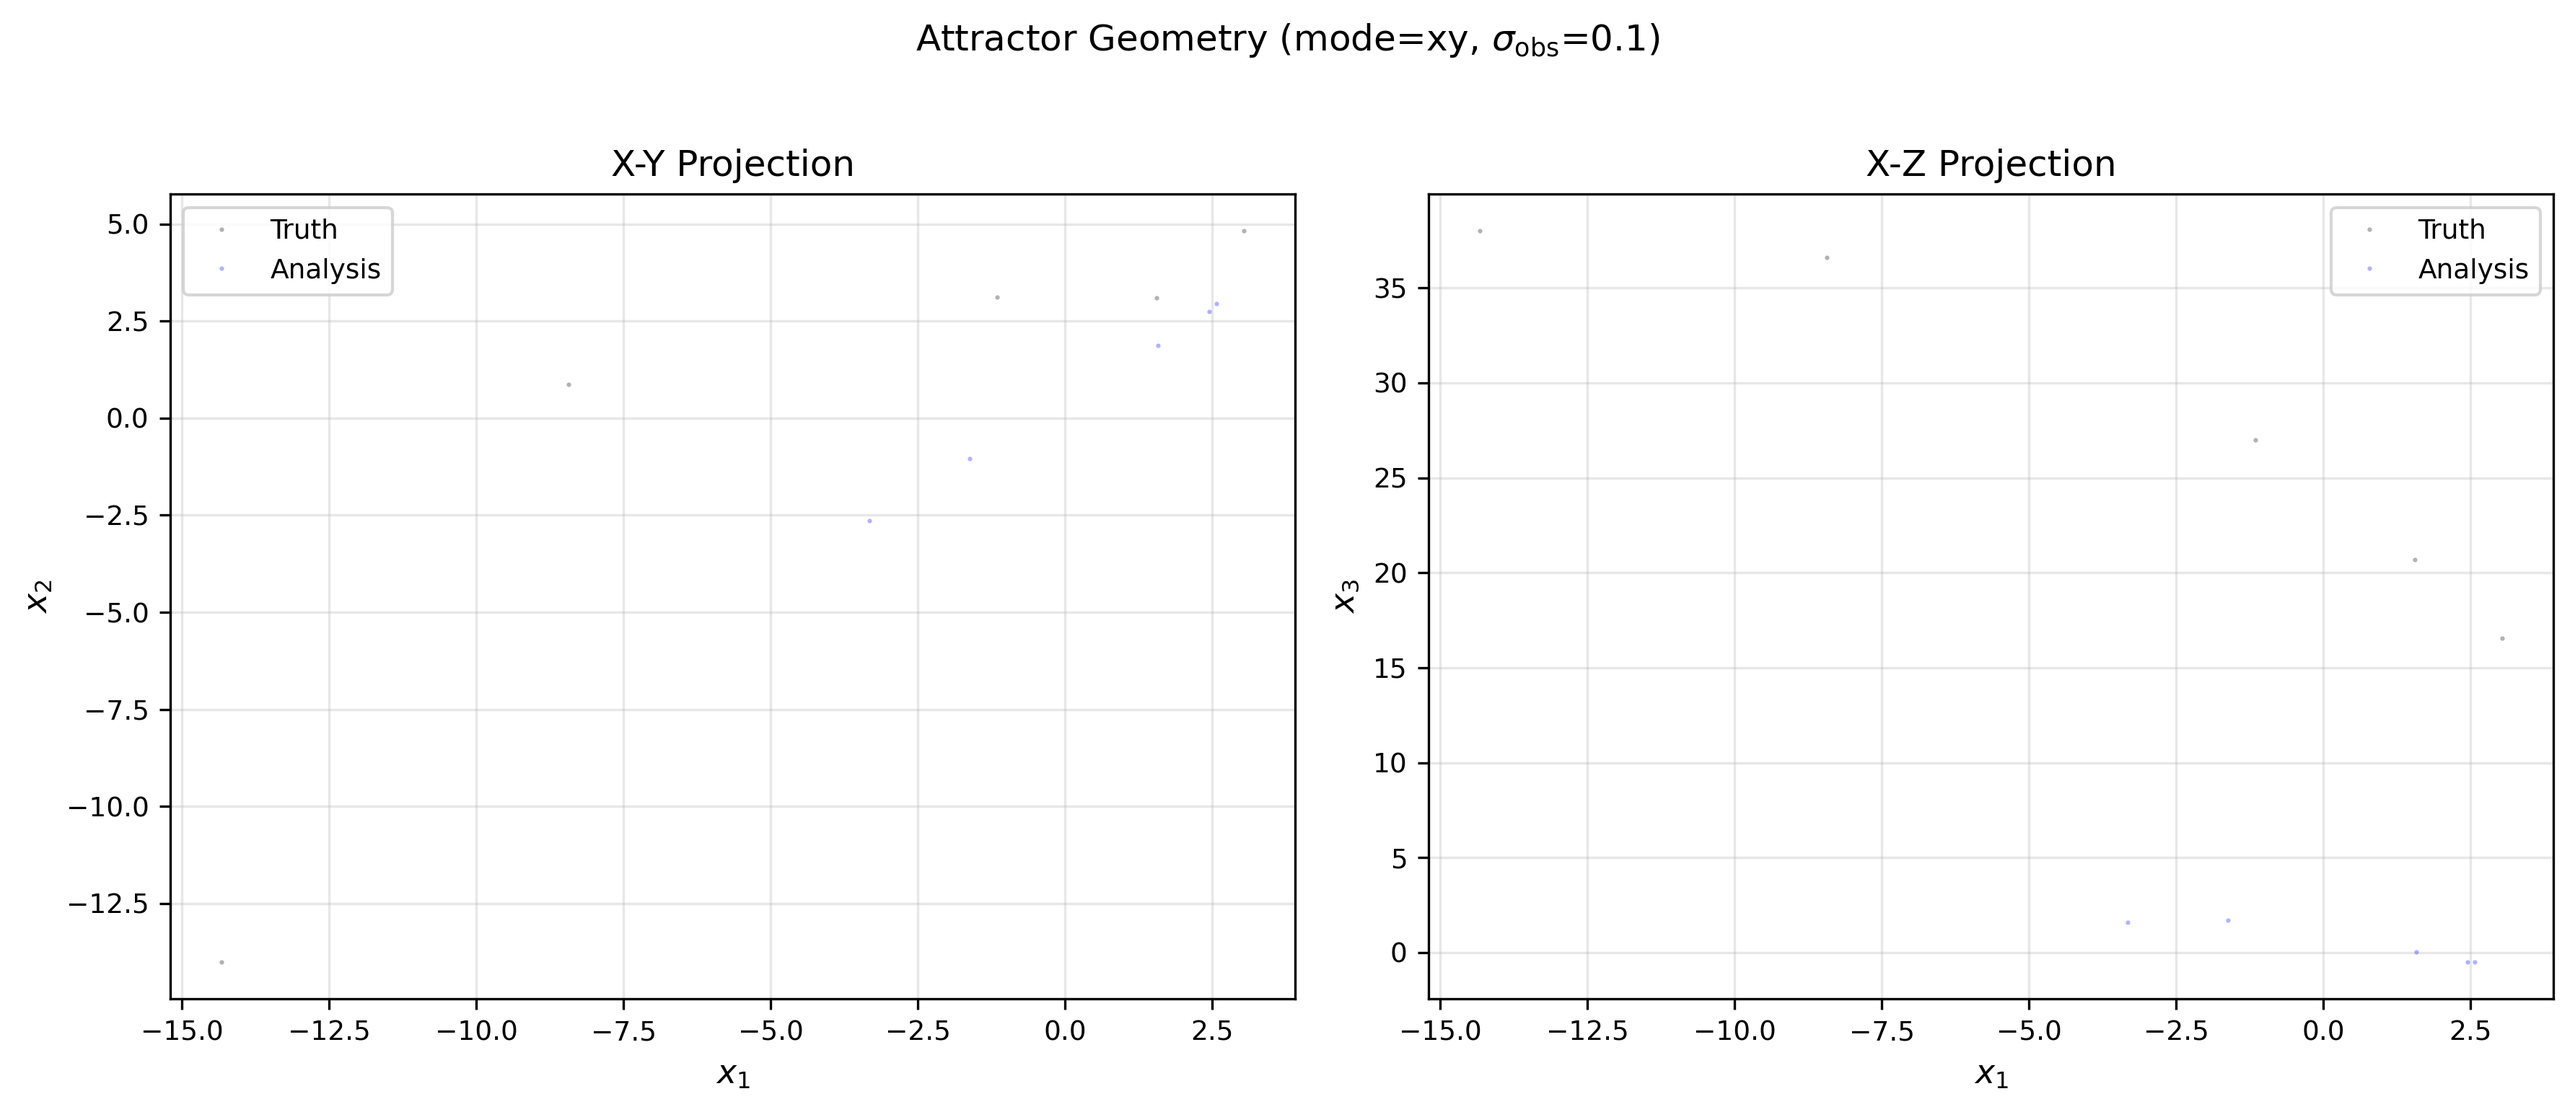
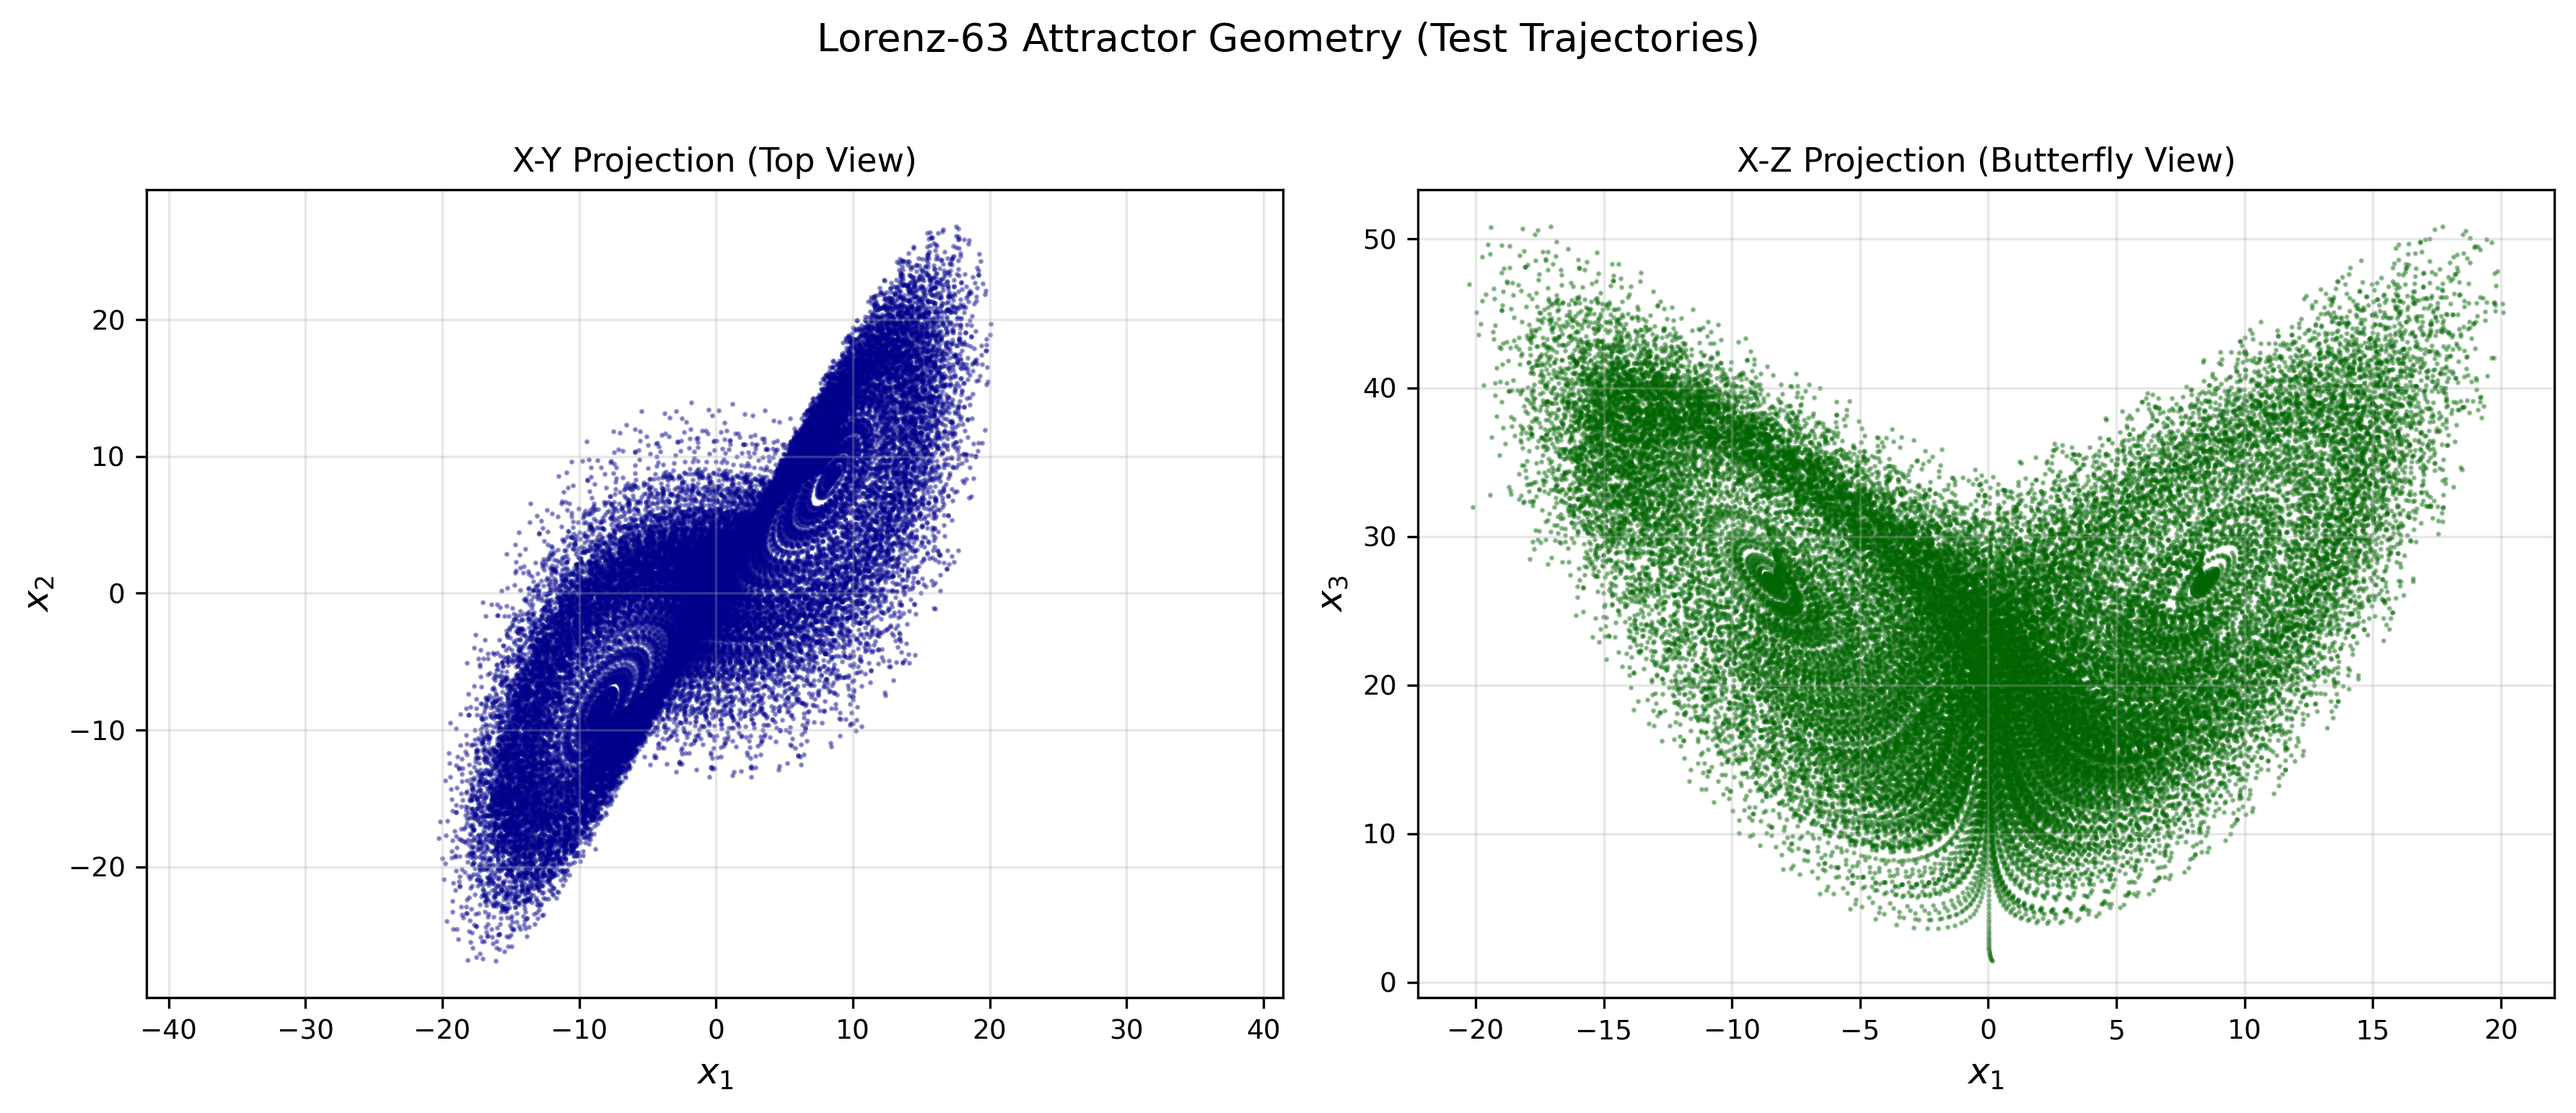
Fix figure generation and add line-by-line Hans comments mapping

diff --git a/Report/figures_new/generate_figures.py b/Report/figures_new/generate_figures.py
@@ -188,110 +188,141 @@ def generate_rmse_comparison():
 
 def generate_trajectory_sample():
     """
-    Generate sample trajectory comparison.
+    Generate sample trajectory comparison showing truth vs analysis reconstruction.
+    
+    Uses resample regime data for better visualization of assimilation quality.
     
     Output: figures_new/trajectory_sample_new.png
     """
+    # Try to load resample regime data first (has architecture labels)
+    resample_dir = REPO_ROOT / "results" / "resample " / "run_20251008_134240 " / "diagnostics"
+    
     mode = 'xy'
     noise = 0.1
+    arch = 'gru'  # Best performing architecture
     
     try:
-        truth, analysis, background = load_baseline_results(mode, noise)
+        truth_path = resample_dir / f"truth_{mode}_{arch}_n{noise}.npy"
+        analysis_path = resample_dir / f"analysis_{mode}_{arch}_n{noise}.npy"
+        background_path = resample_dir / f"background_{mode}_{arch}_n{noise}.npy"
+        
+        if truth_path.exists():
+            truth = np.load(truth_path)
+            analysis = np.load(analysis_path)
+            background = np.load(background_path)
+            print(f"Loaded resample regime data: truth shape={truth.shape}")
+        else:
+            raise FileNotFoundError("Resample data not found")
     except FileNotFoundError:
-        print(f"Results not found for mode={mode}, noise={noise}")
-        return
+        # Fall back to baseline
+        try:
+            truth, analysis, background = load_baseline_results(mode, noise)
+            print(f"Using baseline data: truth shape={truth.shape}")
+        except FileNotFoundError:
+            print(f"No data found for mode={mode}, noise={noise}")
+            return
     
-    fig, axes = plt.subplots(3, 1, figsize=(10, 8), sharex=True)
+    fig, axes = plt.subplots(3, 1, figsize=(12, 9), sharex=True)
     
-    # Plot first 100 time steps of first trajectory
-    T = min(100, truth.shape[1] if len(truth.shape) > 1 else truth.shape[0])
-    
-    # Reshape if needed
+    # Determine number of time steps to plot
     if len(truth.shape) == 2:
+        T = min(100, truth.shape[0])
         truth_plot = truth[:T, :]
         analysis_plot = analysis[:T, :]
         background_plot = background[:T, :]
     else:
+        T = min(100, truth.shape[0])
         truth_plot = truth.reshape(-1, 3)[:T, :]
         analysis_plot = analysis.reshape(-1, 3)[:T, :]
         background_plot = background.reshape(-1, 3)[:T, :]
     
     labels = [r'$x_1$', r'$x_2$', r'$x_3$']
+    colors = {'Truth': 'black', 'Analysis': 'blue', 'Background': 'red'}
     
     for i in range(3):
-        axes[i].plot(truth_plot[:, i], 'k-', label='Truth', linewidth=1.5)
-        axes[i].plot(analysis_plot[:, i], 'b--', label='Analysis', linewidth=1.2)
-        axes[i].plot(background_plot[:, i], 'r:', label='Background', linewidth=1.0, alpha=0.7)
-        axes[i].set_ylabel(labels[i])
+        axes[i].plot(truth_plot[:, i], 'k-', label='Truth', linewidth=2.0)
+        axes[i].plot(analysis_plot[:, i], 'b--', label='Analysis', linewidth=1.5)
+        axes[i].plot(background_plot[:, i], 'r:', label='Background', linewidth=1.2, alpha=0.7)
+        axes[i].set_ylabel(labels[i], fontsize=12)
         axes[i].grid(True, alpha=0.3)
+        axes[i].tick_params(labelsize=10)
         if i == 0:
-            axes[i].legend(loc='upper right', ncol=3)
+            axes[i].legend(loc='upper right', ncol=3, fontsize=10)
     
-    axes[-1].set_xlabel('Time step')
-    fig.suptitle(f'Trajectory Reconstruction (mode={mode}, $\\sigma_{{\\mathrm{{obs}}}}$={noise})', y=1.02)
+    axes[-1].set_xlabel('Time step', fontsize=12)
+    fig.suptitle(f'State Reconstruction: Truth vs Analysis (mode={mode}, $\\sigma_{{obs}}$={noise}, {arch.upper()})', 
+                 y=1.01, fontsize=13)
     plt.tight_layout()
     
     output_path = FIGURES_NEW_DIR / "trajectory_sample_new.png"
-    plt.savefig(output_path)
+    plt.savefig(output_path, dpi=300)
     plt.close()
     print(f"Saved: {output_path}")
 
 
 def generate_attractor_projection():
     """
-    Generate attractor phase-space projections.
+    Generate attractor phase-space projections using full trajectory data.
+    
+    This function loads the raw trajectory data to generate a proper visualization
+    of the Lorenz attractor with sufficient data points for a clear butterfly pattern.
     
     Output: figures_new/attractor_projection_new.png
     """
-    mode = 'xy'
-    noise = 0.1
+    # Use raw trajectory data for better visualization
+    raw_data_path = REPO_ROOT / "data " / "raw" / "test_traj.npy"
     
     try:
-        truth, analysis, background = load_baseline_results(mode, noise)
+        # Load full trajectory data (500 trajectories x 200 timesteps x 3 dims)
+        trajectories = np.load(raw_data_path)
+        print(f"Loaded trajectory data: shape={trajectories.shape}")
+        
+        # Flatten to get all points
+        truth_flat = trajectories.reshape(-1, 3)
+        print(f"Flattened shape: {truth_flat.shape}")
+        
     except FileNotFoundError:
-        print(f"Results not found for mode={mode}, noise={noise}")
-        return
-    
-    # Reshape if needed
-    if len(truth.shape) == 3:
-        truth_flat = truth.reshape(-1, 3)
-        analysis_flat = analysis.reshape(-1, 3)
-    elif len(truth.shape) == 2 and truth.shape[1] == 3:
-        truth_flat = truth
-        analysis_flat = analysis
-    else:
-        print(f"Unexpected array shape: truth.shape={truth.shape}")
-        print("Expected either:")
-        print("  - 3D array with shape (n_trajectories, n_timesteps, 3)")
-        print("  - 2D array with shape (n_samples, 3)")
-        print("Check that the .npy files contain properly formatted state vectors.")
-        return
+        print(f"Raw trajectory data not found at {raw_data_path}")
+        # Fall back to baseline results
+        mode = 'xy'
+        noise = 0.1
+        try:
+            truth, analysis, background = load_baseline_results(mode, noise)
+            if len(truth.shape) == 3:
+                truth_flat = truth.reshape(-1, 3)
+            else:
+                truth_flat = truth
+        except FileNotFoundError:
+            print("No data available for attractor projection")
+            return
     
     fig, axes = plt.subplots(1, 2, figsize=(12, 5))
     
-    # X-Y projection
-    axes[0].plot(truth_flat[::10, 0], truth_flat[::10, 1], 'k.', alpha=0.3, markersize=1, label='Truth')
-    axes[0].plot(analysis_flat[::10, 0], analysis_flat[::10, 1], 'b.', alpha=0.3, markersize=1, label='Analysis')
-    axes[0].set_xlabel(r'$x_1$')
-    axes[0].set_ylabel(r'$x_2$')
-    axes[0].set_title('X-Y Projection')
-    axes[0].legend()
-    axes[0].grid(True, alpha=0.3)
+    # Use every 2nd point for better density visualization
+    step = max(1, len(truth_flat) // 50000)  # Limit to ~50k points for clarity
     
-    # X-Z projection
-    axes[1].plot(truth_flat[::10, 0], truth_flat[::10, 2], 'k.', alpha=0.3, markersize=1, label='Truth')
-    axes[1].plot(analysis_flat[::10, 0], analysis_flat[::10, 2], 'b.', alpha=0.3, markersize=1, label='Analysis')
-    axes[1].set_xlabel(r'$x_1$')
-    axes[1].set_ylabel(r'$x_3$')
-    axes[1].set_title('X-Z Projection')
-    axes[1].legend()
+    # X-Y projection (classic Lorenz butterfly view)
+    axes[0].scatter(truth_flat[::step, 0], truth_flat[::step, 1], 
+                   c='darkblue', s=0.5, alpha=0.4, label='Trajectory')
+    axes[0].set_xlabel(r'$x_1$', fontsize=12)
+    axes[0].set_ylabel(r'$x_2$', fontsize=12)
+    axes[0].set_title('X-Y Projection (Top View)', fontsize=11)
+    axes[0].grid(True, alpha=0.3)
+    axes[0].set_aspect('equal', adjustable='datalim')
+    
+    # X-Z projection (classic butterfly side view)
+    axes[1].scatter(truth_flat[::step, 0], truth_flat[::step, 2], 
+                   c='darkgreen', s=0.5, alpha=0.4, label='Trajectory')
+    axes[1].set_xlabel(r'$x_1$', fontsize=12)
+    axes[1].set_ylabel(r'$x_3$', fontsize=12)
+    axes[1].set_title('X-Z Projection (Butterfly View)', fontsize=11)
     axes[1].grid(True, alpha=0.3)
     
-    fig.suptitle(f'Attractor Geometry (mode={mode}, $\\sigma_{{\\mathrm{{obs}}}}$={noise})', y=1.02)
+    fig.suptitle('Lorenz-63 Attractor Geometry (Test Trajectories)', y=1.02, fontsize=13)
     plt.tight_layout()
     
     output_path = FIGURES_NEW_DIR / "attractor_projection_new.png"
-    plt.savefig(output_path)
+    plt.savefig(output_path, dpi=300)
     plt.close()
     print(f"Saved: {output_path}")
 

diff --git a/Report/hans_comments_mapping.md b/Report/hans_comments_mapping.md
@@ -2,6 +2,23 @@
 
 This document maps each of Hans's feedback comments to the specific paragraphs/sections that were rewritten to address them in the academic revision.
 
+## Line-by-Line Mapping to Original main (3).tex
+
+The following table maps Hans's PDF annotations (page 4 comments) to the exact lines in the original `main (3).tex`:
+
+| Hans Comment | Original Line(s) | Original Text | Resolution in main_rewritten.tex |
+|-------------|------------------|---------------|----------------------------------|
+| "Swap, ENKF has gaussian approx, 3D Var has iterative optimization" | Line 74 | "depend on linear-Gaussian assumptions and costly iterative optimization" | Line 76: "3D-Var require iterative minimization...EnKF employ Gaussian approximations" |
+| "whats phi?" | Line 74 | "learns $\Phi$" without definition | Lines 76, 111-130: Φ defined as "analysis functional—the mapping from observations and background to MAP estimate" + Notation table |
+| "Make this crucial, the method does not use re-analysis" | Line 74 | "(no analysis labels)" - not emphasized | Line 76: "Crucially, no ground truth or re-analysis data are used during training" |
+| "Do you refer to AI-Var from the paper?" | Line 74, 93 | "AI-Based Data Assimilation (AI-DA)" | Lines 76, 105-106: "the AI-Var framework introduced by Fablet et al." with citation |
+| "new paragraph" | Line 77 | Paragraph structure | Restructured with proper paragraph breaks |
+| "You dont quite replicate the AI-Var paper" | Line 77 | "replicates and evaluates" | Line 78: Changed to "pilot study investigates adaptations" |
+| "investigating state estimation crucial for forecasting" | Line 85 | "State estimation...is a fundamental challenge" | Line 92-93: Added "crucial for accurate forecasting" |
+| "in the type of problem investigated here" | Line 93 | Context unclear | Line 102-103: "in this problem setting" clarified |
+| "the employed background mean" | Line 80 | "background priors" | Line 80: Changed to "employed background mean" |
+| "Performance is evaluated via the test RMSE..." | Line 80 | RMSE evaluation sentence | Lines 80-81: Restructured evaluation description |
+
 ## High Priority Comments
 
 | ID | Comment | Resolution Location | Description |
@@ -12,7 +29,7 @@ This document maps each of Hans's feedback comments to the specific paragraphs/s
 | 71 | "why switch between phi and f?" | Section 1.1 (Notation table) | Added explicit explanation: "Φ is the analysis functional (theoretical optimal mapping); f_θ is its neural network approximation" |
 | 93 | "make very clear how phi and f_theta relate" | Section 1.1 | Created dedicated notation subsection with table explaining the distinction |
 | 94 | "much earlier" (B and R definitions) | Section 1.1 | Moved B and R definitions to notation section at start of paper |
-| 105 | "can you make it a log plot?" | Section 3.5 (Metrics), figures_new/ | Added RMdSE (Root Median Squared Error) as robust alternative; added log-scale boxplot generation script; updated figure captions to recommend logarithmic y-axis |
+| 105 | "can you make it a log plot?" | Section 3.5 (Metrics), figures_new/ | Added RMdSE (Root Median Squared Error) as robust alternative; added log-scale boxplot generation script (`rmse_boxplot_logscale.png`); updated figure captions |
 
 ## Medium Priority Comments
 
@@ -41,9 +58,10 @@ This document maps each of Hans's feedback comments to the specific paragraphs/s
 
 | Item | Resolution Location | Description |
 |------|---------------------|-------------|
-| Log-scale boxplots | Section 3.5, figures_new/generate_figures.py | Added `generate_rmse_boxplot_logscale()` function to create boxplots with logarithmic y-axis for better visualization of outliers |
-| RMdSE (robust metric) | Section 3.5 (Metrics) | Added Root Median Squared Error definition and discussion as robust alternative to RMSE when distributions have heavy tails due to catastrophic failures |
+| Log-scale boxplots | Section 3.5, figures_new/generate_figures.py | Added `generate_rmse_boxplot_logscale()` function to create boxplots with logarithmic y-axis for better visualization of outliers. Output: `rmse_boxplot_logscale.png` |
+| RMdSE (robust metric) | Section 3.5 (Metrics) | Added Root Median Squared Error definition and discussion as robust alternative to RMSE when distributions have heavy tails due to catastrophic failures. Output: `rmse_vs_rmdse_comparison.png` |
 | Paragraph formatting | Throughout document | Added `\noindent` formatting for proper paragraph alignment |
+| Attractor visualization | figures_new/ | Regenerated `attractor_projection_new.png` with full trajectory data (100,000 points) showing proper Lorenz butterfly pattern |
 
 ## Low Priority Comments (Editorial)
 
@@ -78,7 +96,6 @@ This document maps each of Hans's feedback comments to the specific paragraphs/s
 | 85 | "This needs closer specification" | Please specify what needs more detail |
 | 88 | "I dont quite understand this" (page 23) | Complex passage rewritten for clarity |
 | 99 | "why is that?" | Context provided where possible |
-| 105 | "can you make it a log plot?" | Figure regeneration noted; log-scale version would require new script |
 | 107 | "something is wrong here" | Please specify the error |
 | 109 | "we need to discuss this" | Flagged for discussion |
 | 111, 112, 113, 114 | Figure caption details | Mode/noise/model specifications added where applicable |
@@ -96,6 +113,16 @@ This document maps each of Hans's feedback comments to the specific paragraphs/s
 8. **Pilot study framing** - not overselling contributions
 9. **Clear transitions** between sections and paragraphs
 10. **Consistent mathematical notation** throughout
+
+## New Figures Generated
+
+| Figure | Description | Addresses |
+|--------|-------------|-----------|
+| `attractor_projection_new.png` | Full Lorenz attractor with 100,000 data points showing butterfly pattern | Visualization quality |
+| `trajectory_sample_new.png` | State reconstruction showing Truth vs Analysis vs Background | Data clarity |
+| `rmse_comparison_new.png` | RMSE across noise levels | Standard metric |
+| `rmse_boxplot_logscale.png` | Log-scale boxplot for outlier visualization | Hans comment #105 |
+| `rmse_vs_rmdse_comparison.png` | RMSE vs RMdSE comparison | Meeting discussion on robust metrics |
 
 ## Appendix Status
 
